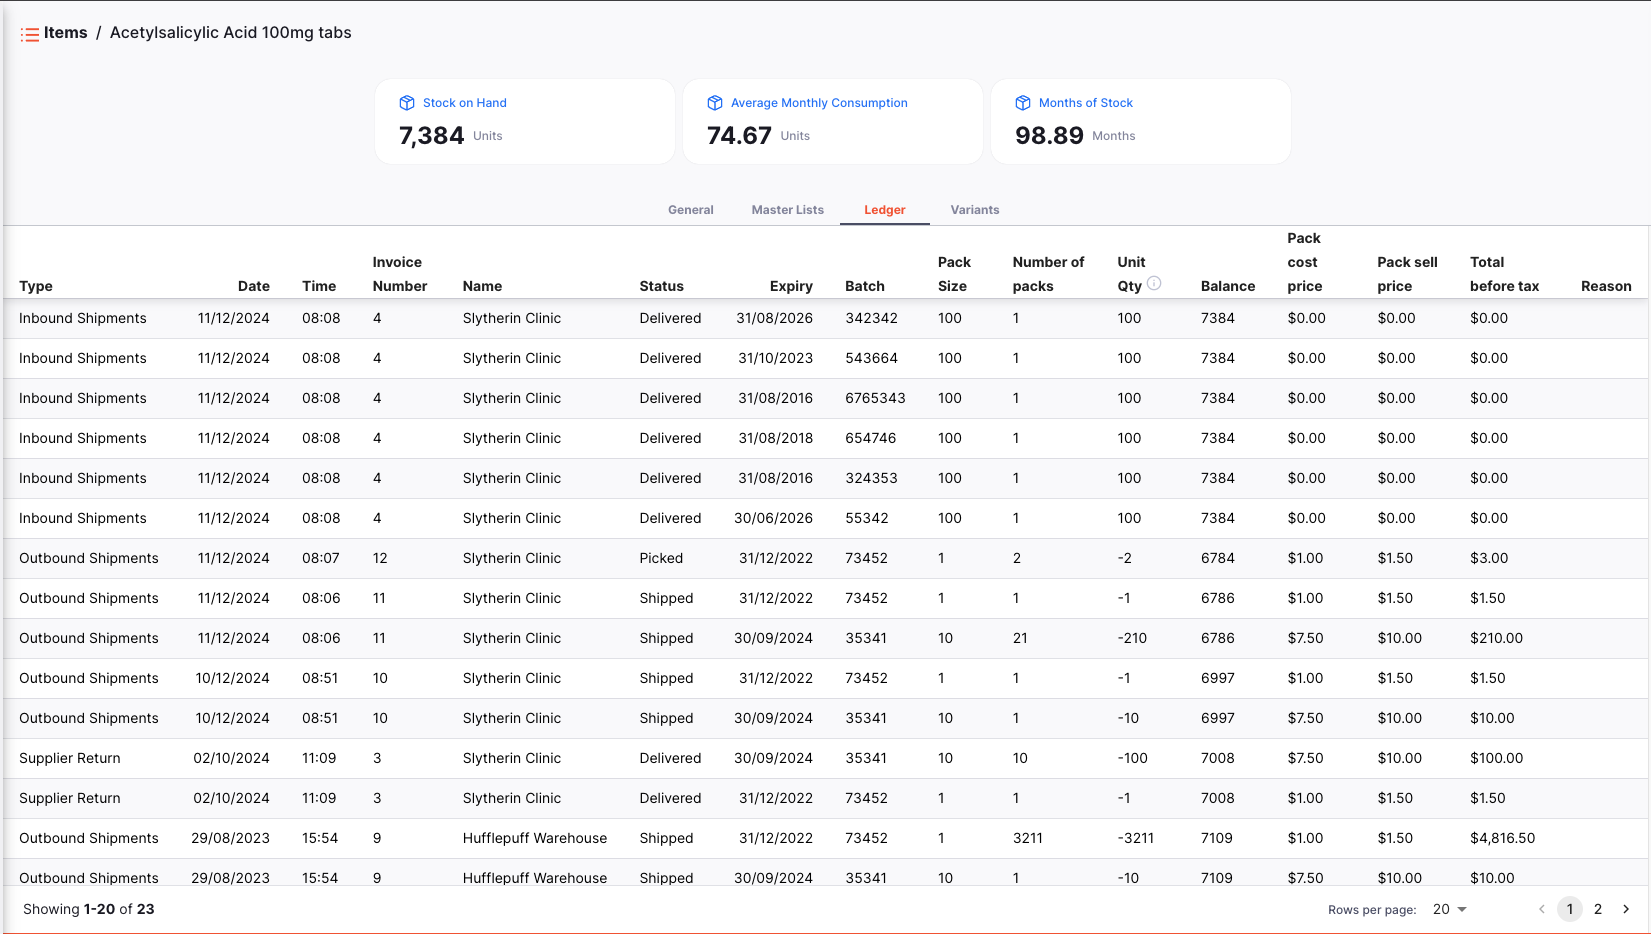
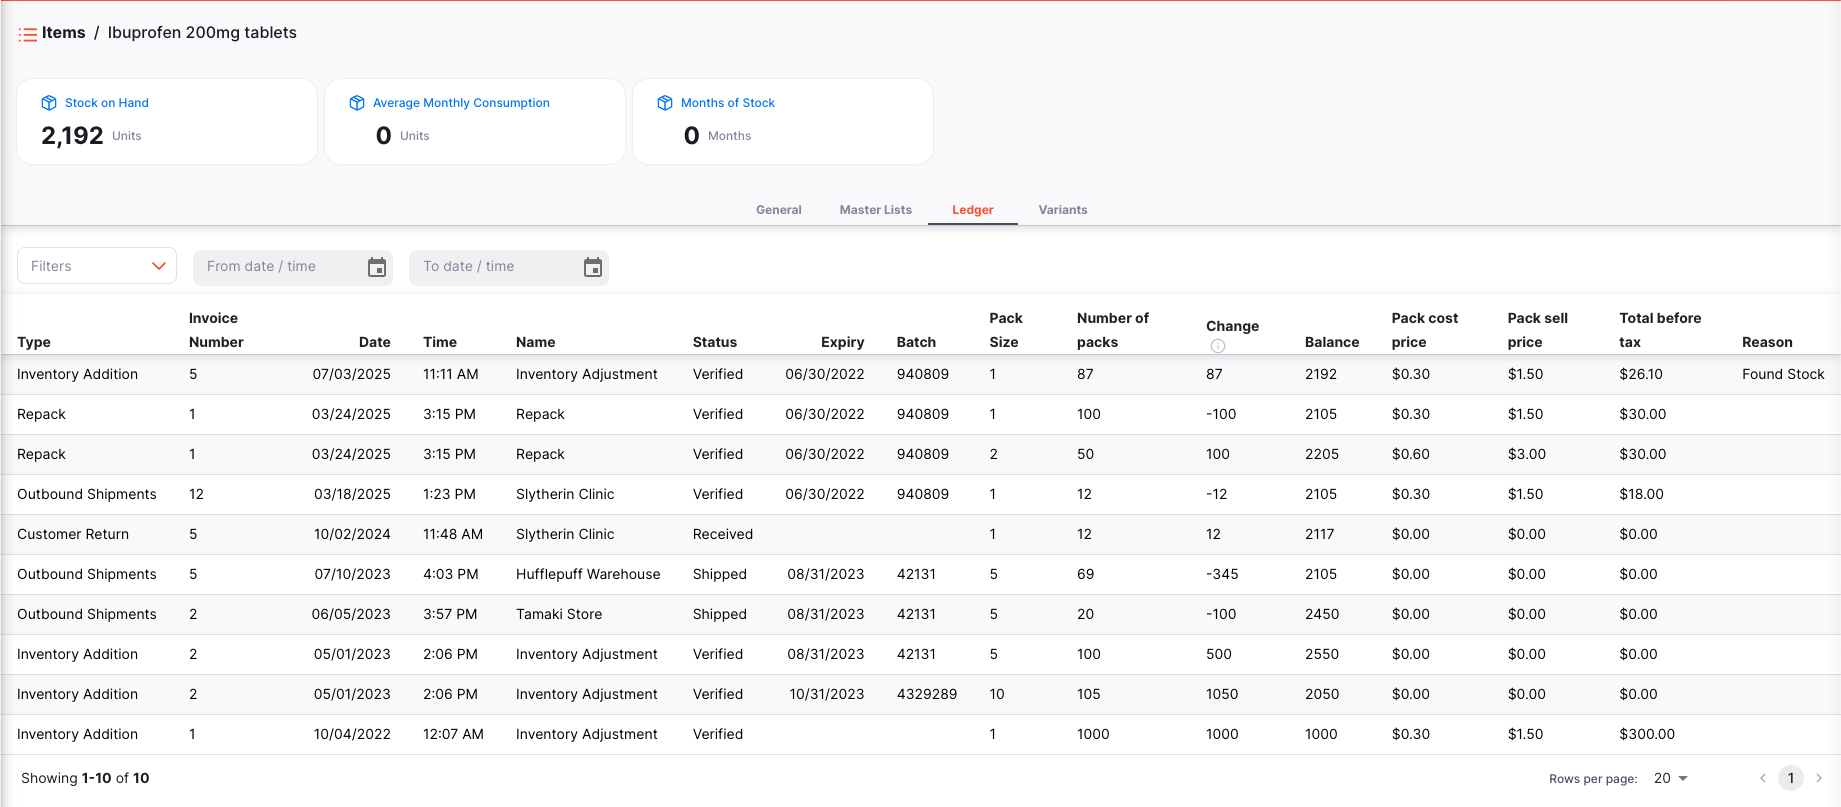
items changes

diff --git a/content/docs/catalogue/items/index.md b/content/docs/catalogue/items/index.md
@@ -125,19 +125,13 @@ The ledger is divided into 16 columns:
 | **Total before tax** | The total cost of the transaction before tax (in local currency) |
 | **Reason**           | The reason for the adjustment (if required)                      |
 
-### Filter Transactions
+### Filter ledger by transactions
 
-You can filter the list of transactions by Type, Status or Date range. This can be useful if you're looking for one particular transaction!
+You can filter the ledgers by the transaction: Type, Status or Date range. This is useful when you need to review a specific set of transactions that meet certain criteria!
 
-![Requisition filter](images-en/ledger_filter.png)
+![Item filter](images-en/ledger_filter.png)
 
-Select the desired filter(s) from the list:
-
-- **Type**: Select a status from the dropdown list
-- **Status**: Select a status from the dropdown list
-- **Date Range**: Enter a date range to filter results by. You can choose a `From Date`, a `To Date`, or filter by both
-
-All of the ledger transactions which match the filters will appear in the list.
+Select one or more filters to narrow down the results. The list will update to show all ledger transactions that match the selected criteria.
 
 ## Item Variants
 
